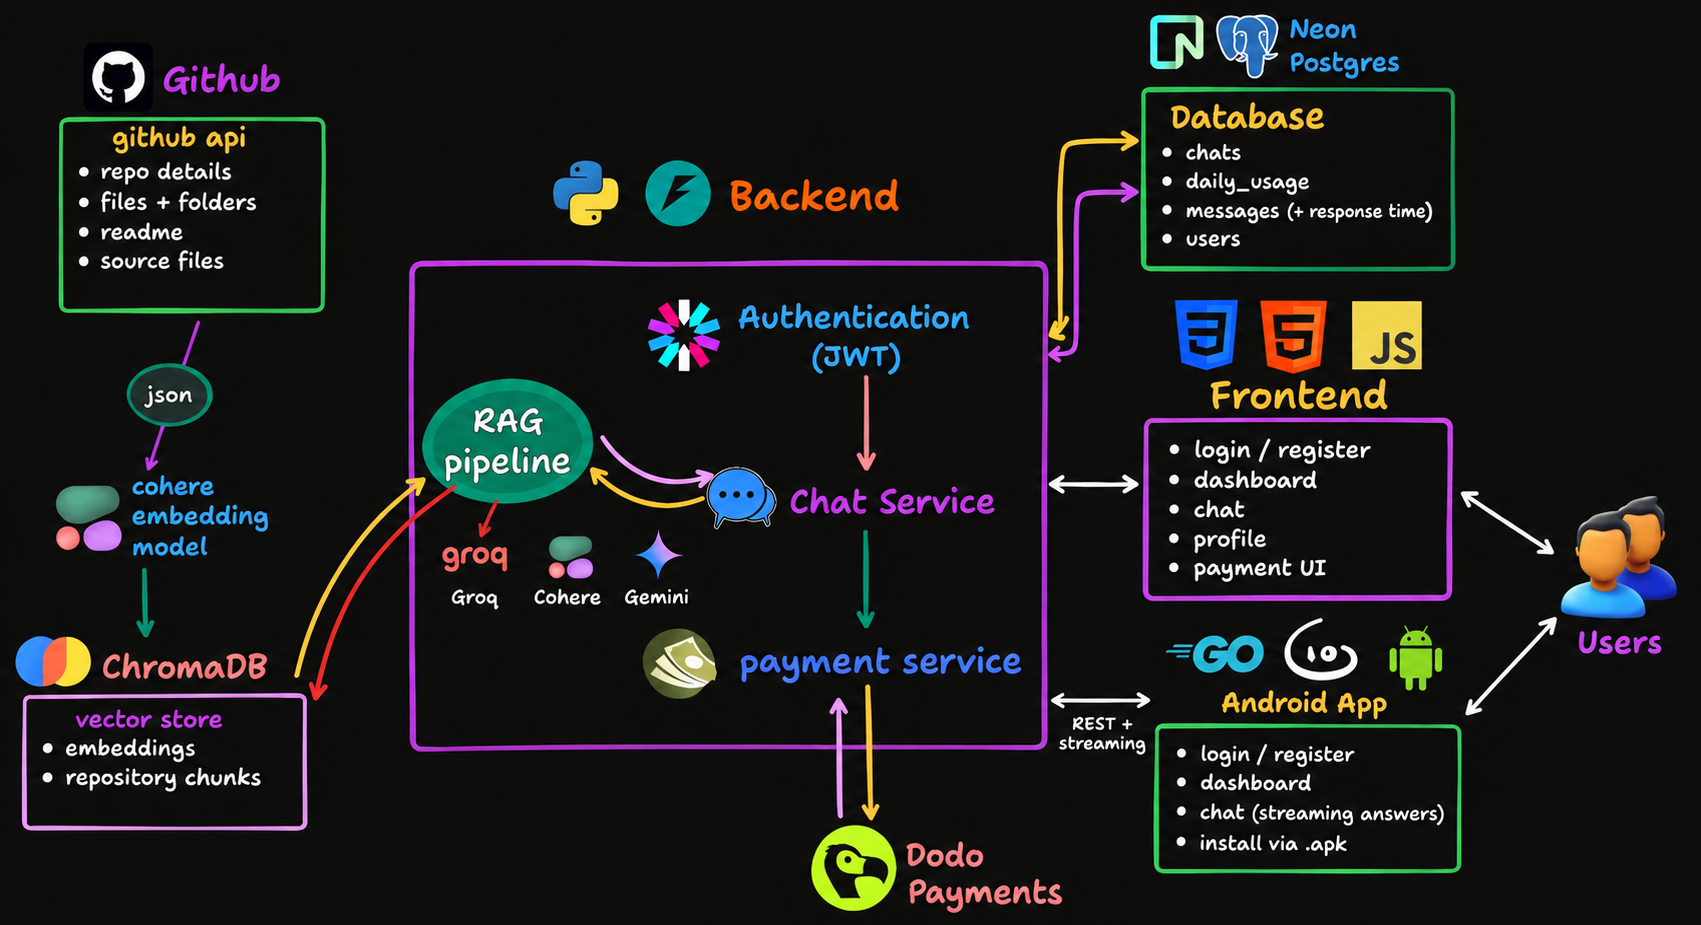
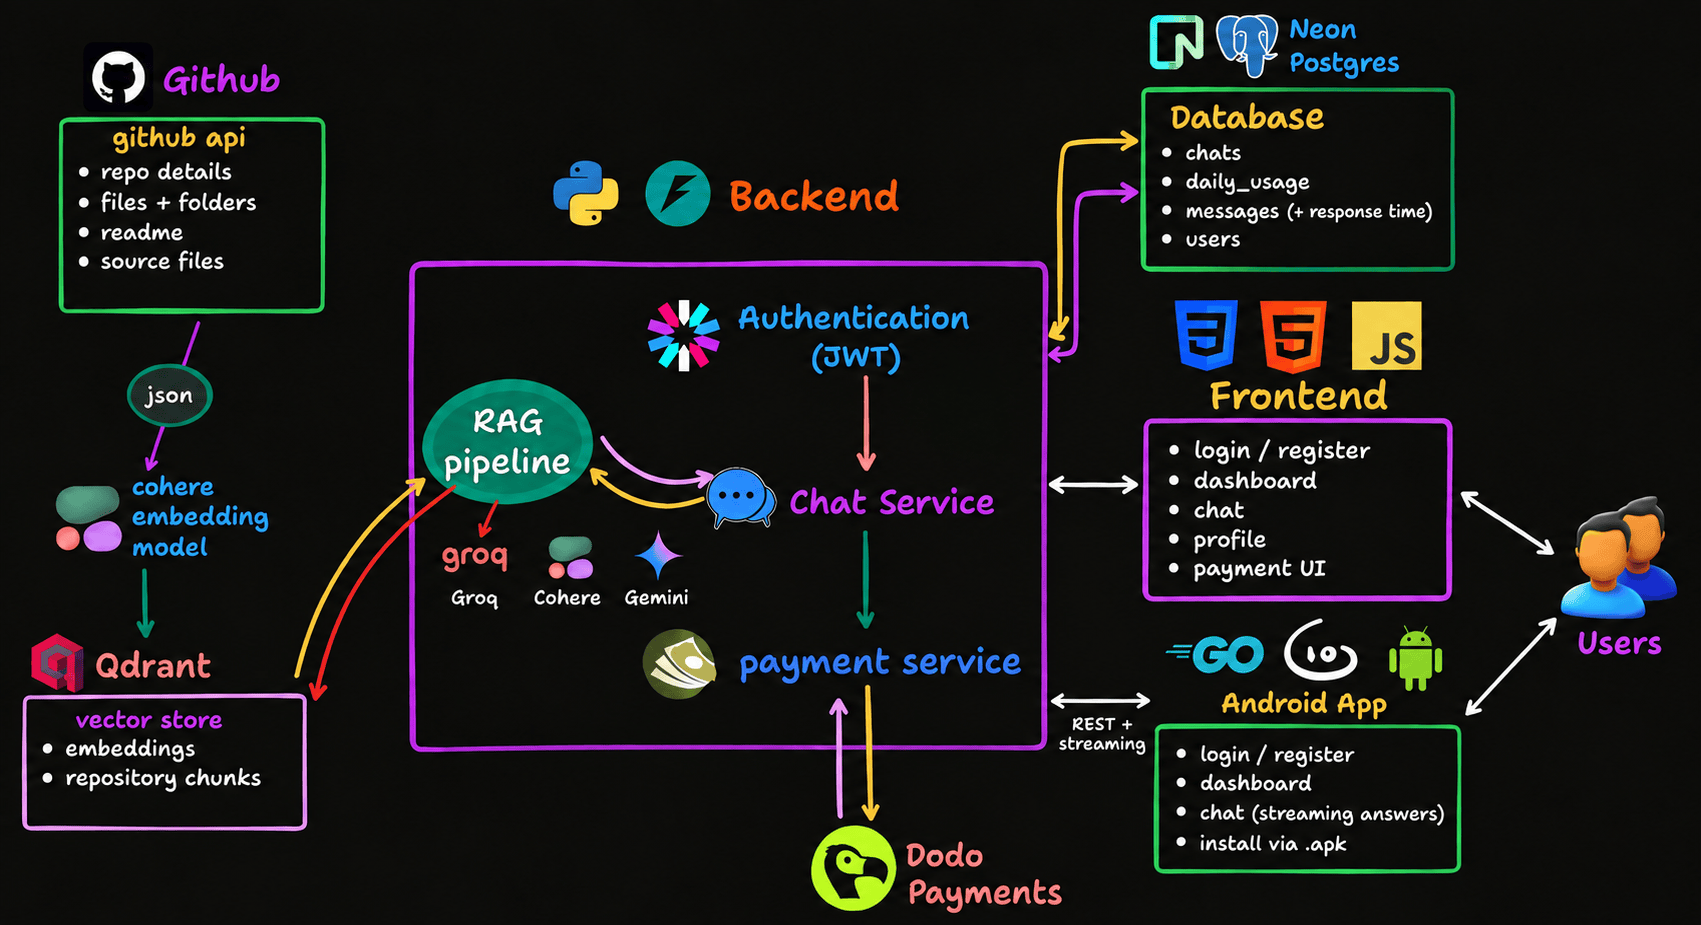
update readme

diff --git a/README.md b/README.md
@@ -13,7 +13,7 @@
 [![Gio](https://img.shields.io/badge/Gio-Android-00ADD8?style=for-the-badge)](https://gioui.org/)
 [![Status](https://img.shields.io/badge/status-active-17b57f?style=for-the-badge)](#)
 
-**[Live Demo](https://chatwithrepo-nine.vercel.app/) · [Android App](https://github.com/shreyaghorui222004/chat-with-repo/releases/tag/v1.2.0) · [Problem](#-the-problem) · [RAG Pipeline](#-rag-pipeline) · [Architecture](#-full-architecture) · [Installation](#-installation)**
+**[Live Demo](https://chatwithrepo-nine.vercel.app/) · [Android App](https://github.com/shreyaghorui222004/chat-with-repo/releases/latest) · [Problem](#-the-problem) · [RAG Pipeline](#-rag-pipeline) · [Architecture](#-full-architecture) · [Installation](#-installation)**
 
 </div>
 
@@ -41,7 +41,7 @@ This is the core of the project — a multi-stage retrieval pipeline, not a sing
 |---|---|---|
 | Query Classification | Keyword / length heuristic (no LLM call) | Routes the question as `lookup` (file/function/usage) or `analysis` (architecture/design) |
 | Multi-Query Generation | Groq — `openai/gpt-oss-20b` | Rephrases the question into alternate search queries to widen recall (skipped for lookups) |
-| Embedding & Retrieval | Cohere `embed-v4.0` + Chroma | Vector search over chunked repo documents |
+| Embedding & Retrieval | Cohere `embed-v4.0` + Qdrant | Vector search over chunked repo documents |
 | Fusion | Reciprocal Rank Fusion (RRF) | Merges results from the original + generated queries into one ranked list |
 | Reranking | Cohere `rerank-v3.5` | Re-scores the fused results against the original question for precision |
 | Repository Overview | Built from the repo data | Name, description, topics, full file tree and README are sent with **every** question, so broad questions never depend on what retrieval happened to return |
@@ -55,7 +55,8 @@ Before any of this, ingestion turns a raw repo into searchable documents:
 - Every chunk is prefixed with its file path so it stays meaningful on its own.
 - Synthetic repository-level summary documents are also generated to improve high-level "explain this codebase" queries.
 - Embedding runs in paced batches and waits out provider rate limits instead of failing.
-- If a chat's index is missing or empty (new machine, wiped disk), it is rebuilt automatically on the first question.
+- Vectors live in Qdrant Cloud, one collection per chat, so an index survives backend restarts and redeploys — it isn't tied to local disk.
+- Indexing runs in the background: creating a chat (or reopening one whose index is missing) shows live progress on the dashboard — fetch stage, then a chunk-by-chunk progress bar — and only opens the chat once it's actually ready, instead of dropping you into an empty chat. A chat that failed to index (e.g. GitHub's rate limit) is retried automatically the next time you open it.
 
 ### Streaming & response time
 
@@ -67,7 +68,7 @@ Answers stream in token by token (server-sent events on `/chat/{id}/ask/stream`)
 
 <img src="frontend/assets/architecture.png" alt="Chat With Repo architecture"/>
 
-Free vs Pro is enforced per-user (monthly repo limit, chat history depth); upgrades run through a Dodo Payments checkout + webhook flow.
+Free vs Pro is enforced per-user: the free plan is capped at 2 repository chats total (not monthly) and 10 questions/day, with a shorter conversation-history window sent to the LLM; Pro removes both caps and adds private repos and on-demand re-indexing. Upgrades run through a Dodo Payments checkout + webhook flow.
 
 ---
 
@@ -81,7 +82,10 @@ The Android app acts as a mobile client for the existing Chat With Repo backend.
 
 - Login and registration
 - Repository chat with live, token-by-token streaming answers
+- Live "setting up your chat" progress while a repo is indexed — same fetch/index stages and progress bar as the web dashboard, with automatic retry for a chat that failed to index
 - Response time under every answer, synced with the web
+- Profile screen — check and save your personal GitHub access token
+- Manual and Web links, opening the web app's user guide and site in the system browser
 - Repository management
 - Bearer-token authentication
 - Native Android UI
@@ -96,7 +100,7 @@ The Android app acts as a mobile client for the existing Chat With Repo backend.
 
 ### Android Release
 
-**[Download ChatWithRepo Android v1.2.0](https://github.com/shreyaghorui222004/chat-with-repo/releases/tag/v1.2.0)**
+**[Download ChatWithRepo Android v1.3.0](https://github.com/shreyaghorui222004/chat-with-repo/releases/tag/v1.3.0)**
 
 The release contains `ChatWithRepo.apk`.
 
@@ -181,9 +185,11 @@ Visit `http://127.0.0.1:5500/index.html`.
 
 To develop against a local backend, change `baseURL` in `mobile/main.go` (`127.0.0.1:8000` for the desktop build, `10.0.2.2:8000` for the Android emulator) and switch it back before committing.
 
+Same applies to `manualURL` and `webURL` in `mobile/ui/auth.go` (the Dashboard drawer's Manual/Web links) — they point at the web frontend and are commonly left on a local dev URL while testing; switch them to the deployed frontend domain before releasing a build.
+
 The Android APK is distributed through GitHub Releases rather than committed to the repository.
 
-**[Download the latest Android release](https://github.com/shreyaghorui222004/chat-with-repo/releases/tag/v1.2.0)**
+**[Download the latest Android release](https://github.com/shreyaghorui222004/chat-with-repo/releases/tag/v1.3.0)**
 
 1. Download `ChatWithRepo.apk`.
 2. Transfer it to your Android device if necessary.
@@ -208,7 +214,7 @@ The Android APK is distributed through GitHub Releases rather than committed to 
 ![Cohere](https://img.shields.io/badge/Cohere-Embed%20v4%20%7C%20Rerank%20v3.5-39594D?style=flat-square)
 ![Gemini](https://img.shields.io/badge/Gemini-Flash--Lite-4285F4?style=flat-square&logo=googlegemini&logoColor=white)
 
-![ChromaDB](https://img.shields.io/badge/ChromaDB-Vector%20Store-8A2BE2?style=flat-square)
+![Qdrant](https://img.shields.io/badge/Qdrant-Vector%20Store-DC244C?style=flat-square)
 ![Neon](https://img.shields.io/badge/Neon-Postgres-00E699?style=flat-square&logo=neondatabase&logoColor=white)
 ![PostgreSQL](https://img.shields.io/badge/PostgreSQL-4169E1?style=flat-square&logo=postgresql&logoColor=white)
 
@@ -230,7 +236,7 @@ The Android APK is distributed through GitHub Releases rather than committed to 
 
 | Version | Platform | Download |
 |---|---|---|
-| v1.2.0 | Android | **[ChatWithRepo.apk](https://github.com/shreyaghorui222004/chat-with-repo/releases/tag/v1.2.0)** |
+| v1.3.0 | Android | **[ChatWithRepo.apk](https://github.com/shreyaghorui222004/chat-with-repo/releases/tag/v1.3.0)** |
 
 ---
 
